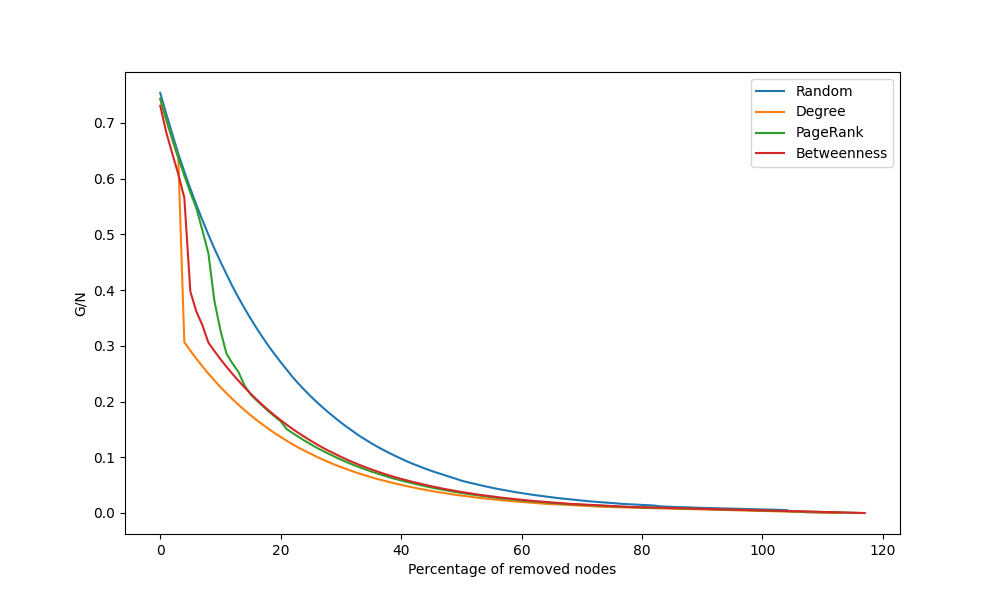
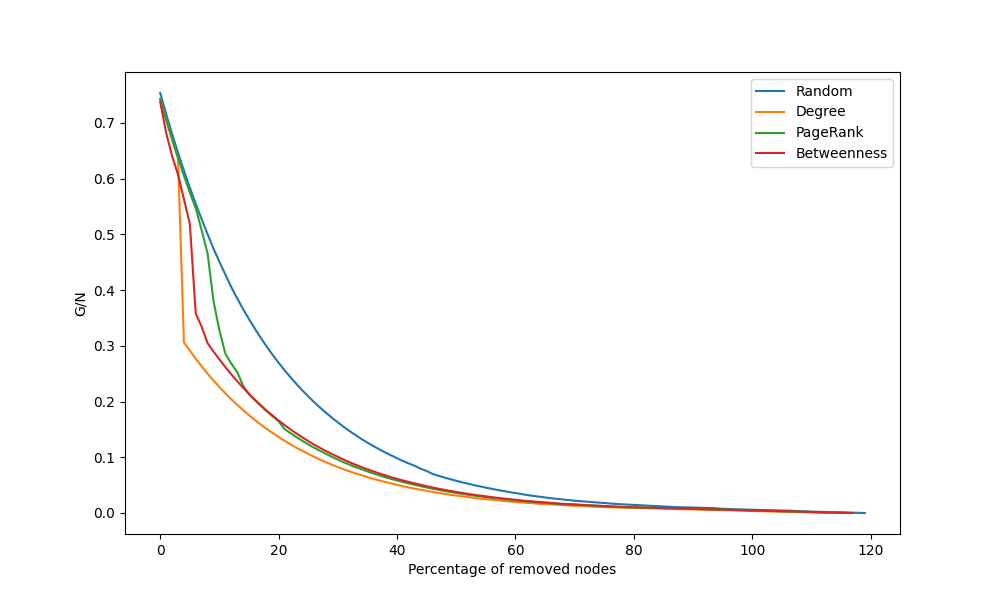
Avanzameento

diff --git a/ASSIGNMENTS/src/assignment3/contagion.py b/ASSIGNMENTS/src/assignment3/contagion.py
@@ -33,15 +33,22 @@ def spread_step(G, threshold=0.3):
             continue
 
         true_count = 0
+        false_count = 0
         for n in neighbors:
             if G.nodes[n]["message"]=="true":
-                true_count +=1
+                true_count += 1
+            elif G.nodes[n]["message"]=="false":
+                false_count += 1
 
-        if true_count / len(neighbors) >= threshold:
+        if max(true_count, false_count) / len(neighbors) >= threshold:
             if G.nodes[node]["type"]=="unintentional":
-                changes[node]="false"
+                if true_count >= false_count:
+                    changes[node]="false"
             else:
-                changes[node]="true"
+                if true_count >= false_count:
+                    changes[node]="true"
+                else:
+                    changes[node]="false"
 
     for node,msg in changes.items():
         G.nodes[node]["message"]=msg

diff --git a/ASSIGNMENTS/src/assignment2/robustness_improved_test.py b/ASSIGNMENTS/src/assignment2/robustness_improved_test.py
@@ -16,6 +16,7 @@ for node,degree in top_nodes:
         for j in range(i+1,len(neighbors)):
             if not G.has_edge(neighbors[i],neighbors[j]):
                 G.add_edge(neighbors[i], neighbors[j])
+                
 print("\nAfter adding edges")
 print("Nodes:",G.number_of_nodes())
 print("Edges:",G.number_of_edges())
